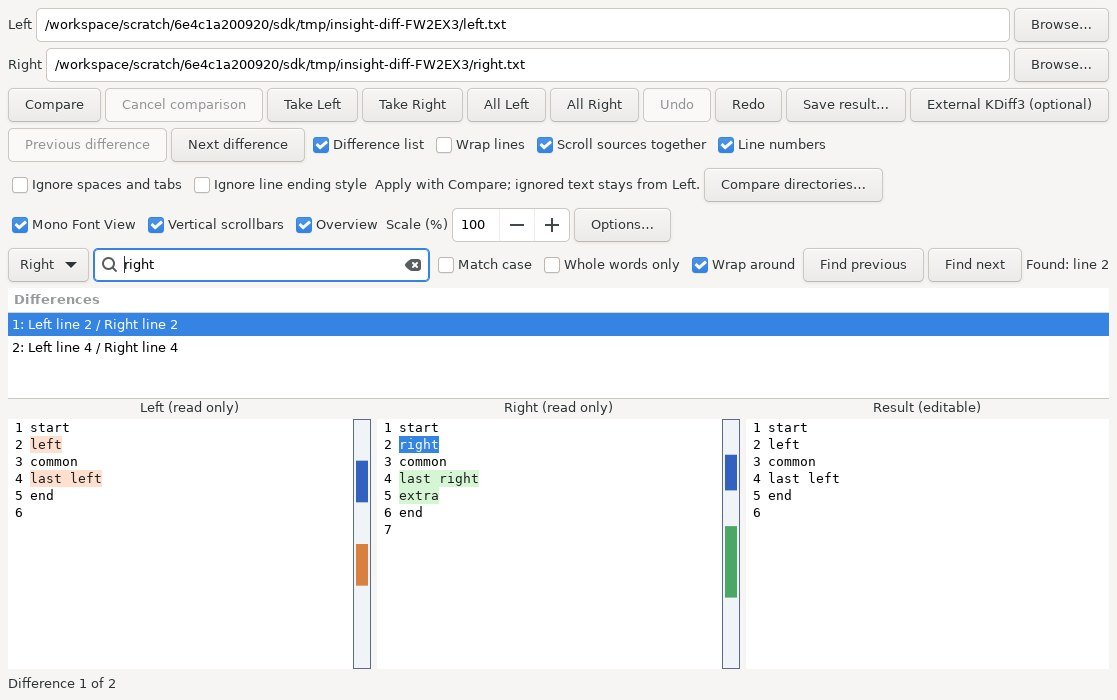
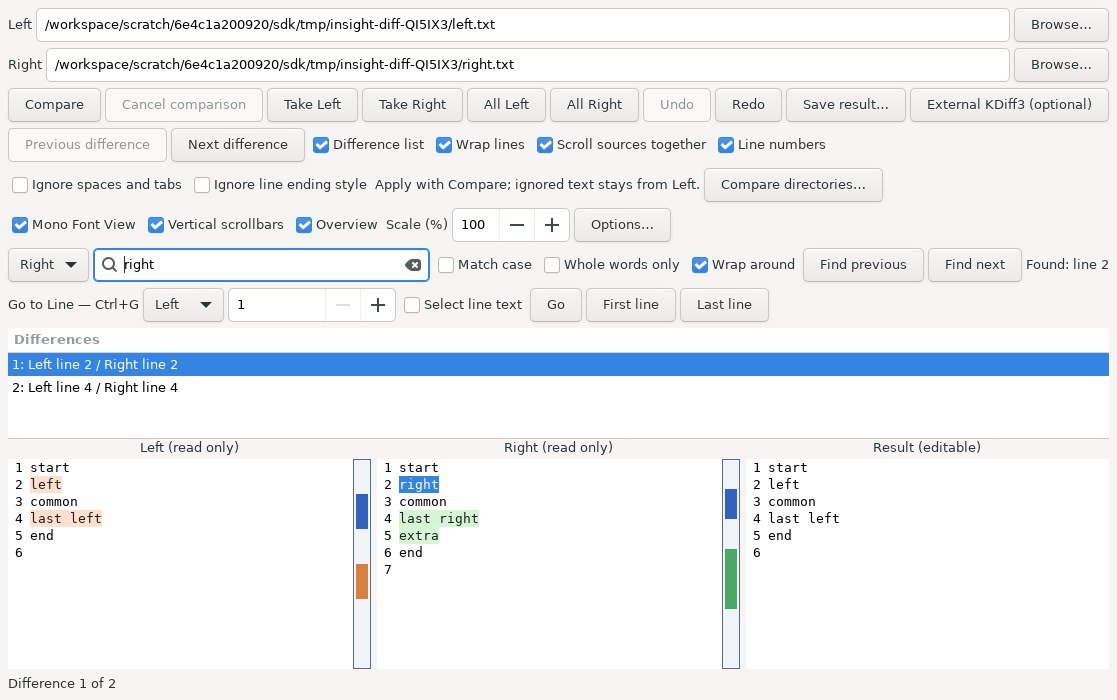
Add logical line navigation, line selection and pane cycling to File Compare

diff --git a/src/insight-diff.c b/src/insight-diff.c
@@ -15,6 +15,7 @@ typedef struct { guint begin,end; } MapBlock;
 typedef struct {
  GtkWidget *window,*paths[2],*views[3],*status,*undo,*redo,*take[2],*take_all[2],*external;
  GtkWidget *find_entry,*find_side,*find_case,*find_word,*find_wrap,*find_previous,*find_next,*find_status,*numbers;
+ GtkWidget *line_side,*line_number,*line_select,*line_status;
  GArray *map_blocks[2];guint map_lines[2];
  GtkWidget *scrollers[3],*maps[2],*zoom,*mono,*vertical,*overview,*list_toggle,*wrap_toggle;GtkCssProvider *font_css;
  GtkWidget *compare_button,*cancel_button,*save_button; GCancellable *cancel; gboolean busy;
@@ -114,9 +115,43 @@ static void focus_find(Merge *m) {
  }
  gtk_widget_grab_focus(m->find_entry);gtk_editable_select_region(GTK_EDITABLE(m->find_entry),0,-1);
 }
+static gint focused_pane(Merge *m) {
+ GtkWidget *focus=gtk_window_get_focus(GTK_WINDOW(m->window));
+ for(gint side=0;side<3;side++) if(focus==m->views[side]) return side;
+ return CLAMP(gtk_combo_box_get_active(GTK_COMBO_BOX(m->line_side)),0,2);
+}
+static void focus_line(Merge *m,gint side) {
+ GtkTextBuffer *buffer=gtk_text_view_get_buffer(GTK_TEXT_VIEW(m->views[side]));GtkTextIter at;
+ gtk_text_buffer_get_iter_at_mark(buffer,&at,gtk_text_buffer_get_insert(buffer));
+ gtk_combo_box_set_active(GTK_COMBO_BOX(m->line_side),side);
+ gtk_spin_button_set_value(GTK_SPIN_BUTTON(m->line_number),gtk_text_iter_get_line(&at)+1);
+ gtk_widget_grab_focus(m->line_number);gtk_editable_select_region(GTK_EDITABLE(m->line_number),0,-1);
+}
+static void go_line(GtkWidget *widget,gpointer data) {
+ (void)widget;Merge *m=data;if(m->busy) return;
+ gint side=CLAMP(gtk_combo_box_get_active(GTK_COMBO_BOX(m->line_side)),0,2);
+ GtkTextBuffer *buffer=gtk_text_view_get_buffer(GTK_TEXT_VIEW(m->views[side]));GtkTextIter at,end;
+ gtk_spin_button_update(GTK_SPIN_BUTTON(m->line_number));
+ gint line=MIN(gtk_spin_button_get_value_as_int(GTK_SPIN_BUTTON(m->line_number)),gtk_text_buffer_get_line_count(buffer));
+ gtk_text_buffer_get_iter_at_line(buffer,&at,line-1);end=at;
+ if(gtk_toggle_button_get_active(GTK_TOGGLE_BUTTON(m->line_select))) {
+  if(!gtk_text_iter_ends_line(&end)) gtk_text_iter_forward_to_line_end(&end);
+  gtk_text_buffer_select_range(buffer,&at,&end);
+ } else gtk_text_buffer_place_cursor(buffer,&at);
+ gtk_spin_button_set_value(GTK_SPIN_BUTTON(m->line_number),line);
+ gtk_text_view_scroll_to_iter(GTK_TEXT_VIEW(m->views[side]),&at,0.1,TRUE,0,0.5);gtk_widget_grab_focus(m->views[side]);
+ gchar *label=g_strdup_printf("Line %d of %d",line,gtk_text_buffer_get_line_count(buffer));gtk_label_set_text(GTK_LABEL(m->line_status),label);g_free(label);
+}
+static void line_begin(GtkWidget *widget,gpointer data) { Merge *m=data;gtk_spin_button_set_value(GTK_SPIN_BUTTON(m->line_number),widget==g_object_get_data(G_OBJECT(m->window),"line-first") ? 1 : G_MAXINT);go_line(widget,m); }
 static gboolean key(GtkWidget *w,GdkEventKey *event,gpointer data) {
  (void)w;
  Merge *m=data;
+ if((event->state&GDK_CONTROL_MASK) && (event->keyval==GDK_KEY_g || event->keyval==GDK_KEY_G)) { focus_line(m,focused_pane(m));return TRUE; }
+ if(event->keyval==GDK_KEY_F6 && !(event->state&(GDK_CONTROL_MASK|GDK_MOD1_MASK))) {
+  gint side=(focused_pane(m)+((event->state&GDK_SHIFT_MASK) ? 2 : 1))%3;
+  gtk_combo_box_set_active(GTK_COMBO_BOX(m->line_side),side);gtk_widget_grab_focus(m->views[side]);return TRUE;
+ }
+ if(event->keyval==GDK_KEY_Escape && w==m->line_number) { gtk_widget_grab_focus(m->views[focused_pane(m)]);return TRUE; }
  if(event->keyval==GDK_KEY_F3) { find_text(m,(event->state&GDK_SHIFT_MASK)!=0);return TRUE; }
  if((event->state&GDK_CONTROL_MASK) && (event->keyval==GDK_KEY_f || event->keyval==GDK_KEY_F)) { focus_find(m);return TRUE; }
  if(event->keyval==GDK_KEY_Escape && w==m->find_entry) {
@@ -401,14 +436,14 @@ static void copy_difference(Merge *m,guint side) {
 static void source_menu_action(GtkMenuItem *item,gpointer window) {
  Merge *m=g_object_get_data(G_OBJECT(window),"insight-diff-state");if(!m) return;
  gint side=GPOINTER_TO_INT(g_object_get_data(G_OBJECT(item),"side"));gint action=GPOINTER_TO_INT(g_object_get_data(G_OBJECT(item),"action"));
- if(action==0) edit_source(m,side);else if(action==1) copy_difference(m,side);else view_options(GTK_WIDGET(item),m);
+ if(action==0) edit_source(m,side);else if(action==1) copy_difference(m,side);else if(action==2) view_options(GTK_WIDGET(item),m);else focus_line(m,side);
 }
 static void view_menu_toggle(GtkCheckMenuItem *item,gpointer toggle) { gtk_toggle_button_set_active(GTK_TOGGLE_BUTTON(toggle),gtk_check_menu_item_get_active(item)); }
 static void source_menu(GtkTextView *view,GtkWidget *menu,gpointer data) {
  Merge *m=data;guint side=GTK_WIDGET(view)==m->views[1] ? 1 : GTK_WIDGET(view)==m->views[0] ? 0 : 2;
  gtk_menu_shell_append(GTK_MENU_SHELL(menu),gtk_separator_menu_item_new());
- const gchar *labels[]={"Edit File — Ctrl+E","Copy selected difference","File Compare Options…"};
- for(guint action=0;action<3;action++) {
+ const gchar *labels[]={"Edit File — Ctrl+E","Copy selected difference","File Compare Options…","Go to Line — Ctrl+G"};
+ for(guint action=0;action<4;action++) {
   if(side==2 && action<2) continue;
   GtkWidget *item=gtk_menu_item_new_with_label(labels[action]);g_object_set_data(G_OBJECT(item),"side",GUINT_TO_POINTER(side));g_object_set_data(G_OBJECT(item),"action",GUINT_TO_POINTER(action));gtk_menu_shell_append(GTK_MENU_SHELL(menu),item);g_signal_connect_object(item,"activate",G_CALLBACK(source_menu_action),m->window,0);
   if(action<2) gtk_widget_set_sensitive(item,!m->busy && m->loaded_paths[side] && (action==0 ? source_opener!=NULL : selected(m)>=0));
@@ -619,6 +654,15 @@ static Merge *merge_new(GtkWidget *parent) {
  m->find_previous=button(find,"Find previous",G_CALLBACK(find_clicked),m);m->find_next=button(find,"Find next",G_CALLBACK(find_clicked),m);
  m->find_status=gtk_label_new("");gtk_box_pack_start(GTK_BOX(find),m->find_status,FALSE,FALSE,0);
  g_signal_connect(m->find_entry,"activate",G_CALLBACK(find_activate),m);g_signal_connect(m->find_entry,"key-press-event",G_CALLBACK(key),m);
+ GtkWidget *line=gtk_box_new(GTK_ORIENTATION_HORIZONTAL,4);gtk_box_pack_start(GTK_BOX(box),line,FALSE,FALSE,0);
+ gtk_box_pack_start(GTK_BOX(line),gtk_label_new("Go to Line — Ctrl+G"),FALSE,FALSE,0);
+ m->line_side=gtk_combo_box_text_new();for(guint i=0;i<3;i++) gtk_combo_box_text_append_text(GTK_COMBO_BOX_TEXT(m->line_side),i==0 ? "Left" : i==1 ? "Right" : "Result");gtk_combo_box_set_active(GTK_COMBO_BOX(m->line_side),0);gtk_box_pack_start(GTK_BOX(line),m->line_side,FALSE,FALSE,0);
+ m->line_number=gtk_spin_button_new_with_range(1,G_MAXINT,1);gtk_entry_set_width_chars(GTK_ENTRY(m->line_number),10);gtk_widget_set_name(m->line_number,"insight-diff-line");gtk_box_pack_start(GTK_BOX(line),m->line_number,FALSE,FALSE,0);
+ m->line_select=gtk_check_button_new_with_label("Select line text");gtk_box_pack_start(GTK_BOX(line),m->line_select,FALSE,FALSE,0);
+ button(line,"Go",G_CALLBACK(go_line),m);GtkWidget *first=button(line,"First line",G_CALLBACK(line_begin),m);g_object_set_data(G_OBJECT(m->window),"line-first",first);button(line,"Last line",G_CALLBACK(line_begin),m);
+ m->line_status=gtk_label_new("");gtk_box_pack_start(GTK_BOX(line),m->line_status,FALSE,FALSE,0);
+ gtk_widget_set_tooltip_text(m->line_number,"Logical line number; values beyond the end go to the last line.");
+ g_signal_connect(m->line_number,"activate",G_CALLBACK(go_line),m);g_signal_connect(m->line_number,"key-press-event",G_CALLBACK(key),m);
  GtkWidget *panes=gtk_paned_new(GTK_ORIENTATION_VERTICAL);gtk_box_pack_start(GTK_BOX(box),panes,TRUE,TRUE,0);
  m->list=gtk_list_store_new(2,G_TYPE_INT,G_TYPE_STRING);m->hunk_view=gtk_tree_view_new_with_model(GTK_TREE_MODEL(m->list));
  gtk_tree_view_insert_column_with_attributes(GTK_TREE_VIEW(m->hunk_view),-1,"Differences",gtk_cell_renderer_text_new(),"text",1,NULL);

diff --git a/insight/tests/directory_compare_native_gui_test.c b/insight/tests/directory_compare_native_gui_test.c
@@ -48,7 +48,7 @@ static gboolean step(gpointer data) {
   if(!gtk_widget_get_sensitive(named(merge,"insight-diff-compare"))) return G_SOURCE_CONTINUE;
   GtkTextBuffer *buffer=gtk_text_view_get_buffer(GTK_TEXT_VIEW(named(merge,"insight-diff-result")));GtkTextIter a,z;gtk_text_buffer_get_bounds(buffer,&a,&z);gchar *text=gtk_text_buffer_get_text(buffer,&a,&z,TRUE);g_assert_cmpstr(text,==,"port = 3000\n");g_free(text);
   GdkEventKey shortcut={0};shortcut.type=GDK_KEY_PRESS;shortcut.state=GDK_CONTROL_MASK;shortcut.keyval=GDK_KEY_q;gboolean handled=FALSE;g_idle_add(apply_compare_options,NULL);g_signal_emit_by_name(merge,"key-press-event",&shortcut,&handled);g_assert_true(handled);g_assert_cmpint(gtk_spin_button_get_value_as_int(GTK_SPIN_BUTTON(named(merge,"insight-diff-zoom"))),==,130);g_assert_true(gtk_toggle_button_get_active(GTK_TOGGLE_BUTTON(named(merge,"insight-diff-overview"))));
-  GtkWidget *right_view=named(merge,"insight-diff-right");GtkTextBuffer *right_buffer=gtk_text_view_get_buffer(GTK_TEXT_VIEW(right_view));GtkTextIter line;gtk_text_buffer_get_iter_at_line(right_buffer,&line,1);gtk_text_buffer_place_cursor(right_buffer,&line);shortcut.keyval=GDK_KEY_e;handled=FALSE;g_signal_emit_by_name(right_view,"key-press-event",&shortcut,&handled);g_assert_true(handled);GeanyDocument *opened=document_get_current();g_assert_nonnull(opened);gchar *expected=g_build_filename(right,"config.ini",NULL);g_assert_cmpstr(opened->real_path,==,expected);g_free(expected);g_assert_cmpint(sci_get_current_line(opened->editor->sci),==,1);g_assert_false(opened->changed);gtk_widget_destroy(merge);
+  GtkWidget *right_view=named(merge,"insight-diff-right");GtkTextBuffer *right_buffer=gtk_text_view_get_buffer(GTK_TEXT_VIEW(right_view));GtkTextIter line;gtk_widget_grab_focus(right_view);shortcut.keyval=GDK_KEY_g;handled=FALSE;g_signal_emit_by_name(right_view,"key-press-event",&shortcut,&handled);g_assert_true(handled);GtkWidget *line_number=named(merge,"insight-diff-line");g_assert_nonnull(line_number);gtk_spin_button_set_value(GTK_SPIN_BUTTON(line_number),2);g_signal_emit_by_name(line_number,"activate");gtk_text_buffer_get_iter_at_mark(right_buffer,&line,gtk_text_buffer_get_insert(right_buffer));g_assert_cmpint(gtk_text_iter_get_line(&line),==,1);shortcut.keyval=GDK_KEY_e;handled=FALSE;g_signal_emit_by_name(right_view,"key-press-event",&shortcut,&handled);g_assert_true(handled);GeanyDocument *opened=document_get_current();g_assert_nonnull(opened);gchar *expected=g_build_filename(right,"config.ini",NULL);g_assert_cmpstr(opened->real_path,==,expected);g_free(expected);g_assert_cmpint(sci_get_current_line(opened->editor->sci),==,1);g_assert_false(opened->changed);gtk_widget_destroy(merge);
   gchar *copy=g_build_filename(left,"transfer.c",NULL);g_assert_true(g_file_set_contents(copy,"int transfer;\n",-1,NULL));g_free(copy);gtk_button_clicked(GTK_BUTTON(named(directory,"insight-directory-scan")));phase=3;return G_SOURCE_CONTINUE;
  }
  if(phase==3) {

diff --git a/insight/tests/diff_gui_test.c b/insight/tests/diff_gui_test.c
@@ -67,8 +67,24 @@ static void search_options_test(void) {
  assert_text(m,"foobar foo_bar foo2 αfoo foó foo FOO");
  gtk_widget_destroy(m->window);flush();
 }
+static void line_navigation_test(void) {
+ Merge *m=merge_new(NULL);flush();GtkTextBuffer *b=result(m);GtkTextIter a,z;GdkEventKey event={0};
+ gtk_text_buffer_set_text(b,"one\r\nдва\rthree\n",-1);guint history=m->history->len;
+ gtk_widget_grab_focus(m->views[2]);event.state=GDK_CONTROL_MASK;event.keyval=GDK_KEY_g;
+ g_assert_true(key(m->views[2],&event,m));g_assert_true(gtk_widget_has_focus(m->line_number));g_assert_cmpint(gtk_combo_box_get_active(GTK_COMBO_BOX(m->line_side)),==,2);
+ gtk_spin_button_set_value(GTK_SPIN_BUTTON(m->line_number),2);gtk_toggle_button_set_active(GTK_TOGGLE_BUTTON(m->line_select),TRUE);
+ go_line(NULL,m);g_assert_true(gtk_text_buffer_get_selection_bounds(b,&a,&z));gchar *text=gtk_text_buffer_get_text(b,&a,&z,TRUE);g_assert_cmpstr(text,==,"два");g_free(text);
+ gtk_toggle_button_set_active(GTK_TOGGLE_BUTTON(m->wrap_toggle),TRUE);gtk_spin_button_set_value(GTK_SPIN_BUTTON(m->line_number),G_MAXINT);go_line(NULL,m);
+ gtk_text_buffer_get_iter_at_mark(b,&a,gtk_text_buffer_get_insert(b));g_assert_cmpint(gtk_text_iter_get_line(&a),==,3);g_assert_false(gtk_text_buffer_get_has_selection(b));
+ line_begin(g_object_get_data(G_OBJECT(m->window),"line-first"),m);gtk_text_buffer_get_selection_bounds(b,&a,&z);g_assert_cmpint(gtk_text_iter_get_line(&a),==,0);
+ event.state=0;event.keyval=GDK_KEY_F6;g_assert_true(key(m->views[2],&event,m));g_assert_true(gtk_widget_has_focus(m->views[0]));
+ event.state=GDK_SHIFT_MASK;g_assert_true(key(m->views[0],&event,m));g_assert_true(gtk_widget_has_focus(m->views[2]));
+ g_assert_cmpuint(m->history->len,==,history);assert_text(m,"one\r\nдва\rthree\n");
+ gtk_text_buffer_set_text(b,"",0);gtk_spin_button_set_value(GTK_SPIN_BUTTON(m->line_number),100);go_line(NULL,m);g_assert_cmpint(gtk_spin_button_get_value_as_int(GTK_SPIN_BUTTON(m->line_number)),==,1);
+ gtk_widget_destroy(m->window);flush();
+}
 int main(int argc,char **argv) {
- gtk_init(&argc,&argv);search_options_test();insight_diff_set_source_opener(source_opened);
+ gtk_init(&argc,&argv);line_navigation_test();search_options_test();insight_diff_set_source_opener(source_opened);
  GError *error=NULL;gchar *dir=g_dir_make_tmp("insight-diff-XXXXXX",&error);g_assert_no_error(error);
  gchar *left=g_build_filename(dir,"left.txt",NULL),*right=g_build_filename(dir,"right.txt",NULL);
  const char *a="start\nleft\ncommon\nlast left\nend\n",*b="start\nright\ncommon\nlast right\nextra\nend\n";

diff --git a/insight/docs/ru/internal-diff.md b/insight/docs/ru/internal-diff.md
@@ -142,3 +142,9 @@ Alt+Left / Alt+Right принимает выбранный левый/правы
 Ctrl+F выбирает активную панель и подставляет однострочное выделение до 4096 символов. «Whole words only» учитывает границы идентификаторов: буквы Unicode, цифры, комбинируемые знаки и подчёркивания входят в слово. «Wrap around» разрешает один повтор поиска с противоположного конца; отключите его для остановки на границе файла. F3 и Shift+F3 сохраняют направление. Параметры поиска действуют в текущем окне, поиск не меняет текст результата и историю слияния. Регулярные выражения не поддерживаются.
 
 ![Поиск в настоящем виджете сравнения, изолированный GTK fixture](../media/file-compare.jpg)
+
+### Переход к строке и переключение панелей
+
+Ctrl+G выбирает активную панель и подставляет номер строки курсора. Введите логический номер и нажмите Enter или «Go». Номер за концом файла переводит на последнюю строку; пустой файл содержит строку 1. «Select line text» выделяет содержимое без перевода строки. «First line» и «Last line» работают в выбранной панели. Escape возвращает фокус из номера строки в панель. Команда доступна и в контекстном меню.
+
+F6 переключает Left → Right → Result, Shift+F6 — обратно. Поиск сохраняет собственный выбор панели. Переходы не меняют текст, выбранное различие и историю слияния; во время сравнения переход к строке заблокирован. Номера логические и не зависят от визуального переноса длинных строк. Снимок виджета выше показывает панель навигации.

diff --git a/insight/docs/en/internal-diff.md b/insight/docs/en/internal-diff.md
@@ -185,3 +185,9 @@ This dialog is captured from production GTK widgets in the isolated Linux fixtur
 Ctrl+F targets the focused pane and seeds the query from a single-line selection of up to 4096 characters. **Whole words only** uses identifier boundaries: Unicode letters, digits, combining marks and underscores belong to words. **Wrap around** allows one retry from the opposite end; disable it to stop at the file boundary. F3 and Shift+F3 search forward and backward. Search options apply to the current window and never modify result text or merge history. Regular expressions are not supported.
 
 ![Production comparison widget search, isolated GTK fixture](../media/file-compare.jpg)
+
+### Go to Line and pane switching
+
+Ctrl+G targets the focused pane and seeds its current caret line. Enter a logical line number and press Enter or **Go**. Numbers beyond EOF land on the last line; an empty buffer has line 1. **Select line text** selects content without its line ending. **First line** and **Last line** use the selected pane. Escape returns focus from the number field to that pane. Go to Line is also available in the text context menu.
+
+F6 cycles Left → Right → Result; Shift+F6 reverses the order. Search keeps its independent pane choice. Navigation preserves text, selected difference and merge history; Go to Line is blocked while comparison runs. Logical lines do not change when long lines wrap visually. The production-widget capture above includes the navigation bar.

diff --git a/insight/docs/internal-diff.md b/insight/docs/internal-diff.md
@@ -185,3 +185,9 @@ This dialog is captured from production GTK widgets in the isolated Linux fixtur
 Ctrl+F targets the focused pane and seeds the query from a single-line selection of up to 4096 characters. **Whole words only** uses identifier boundaries: Unicode letters, digits, combining marks and underscores belong to words. **Wrap around** allows one retry from the opposite end; disable it to stop at the file boundary. F3 and Shift+F3 search forward and backward. Search options apply to the current window and never modify result text or merge history. Regular expressions are not supported.
 
 ![Production comparison widget search, isolated GTK fixture](media/file-compare.jpg)
+
+### Go to Line and pane switching
+
+Ctrl+G targets the focused pane and seeds its current caret line. Enter a logical line number and press Enter or **Go**. Numbers beyond EOF land on the last line; an empty buffer has line 1. **Select line text** selects content without its line ending. **First line** and **Last line** use the selected pane. Escape returns focus from the number field to that pane. Go to Line is also available in the text context menu.
+
+F6 cycles Left → Right → Result; Shift+F6 reverses the order. Search keeps its independent pane choice. Navigation preserves text, selected difference and merge history; Go to Line is blocked while comparison runs. Logical lines do not change when long lines wrap visually. The production-widget capture above includes the navigation bar.

diff --git a/insight/docs/source-insight-parity.md b/insight/docs/source-insight-parity.md
@@ -428,3 +428,7 @@ Source context menus expose Edit File (Ctrl+E) at the source caret line, exact s
 ### 2026-10-16 — comparison search controls
 
 Added whole-identifier matching, optional wrap-around and Ctrl+F selection seeding in all three comparison panes. Unicode combining marks and underscore remain identifier constituents. Production GTK fixture verifies both directions, rejected partial identifiers, wrap disabled/enabled, selection seeding and unchanged result text. Linux GTK/UBSan validation; other platforms not executed. Reference: [Source Insight Search](https://www.sourceinsight.com/doc/v4/userguide/Manual/Command_Reference/Search.htm).
+
+### 2026-10-16 — comparison line navigation
+
+Added Ctrl+G logical-line navigation in all three panes, EOF clamping, optional line-content selection, first/last line buttons, source/result context-menu access, Escape focus return and F6/Shift+F6 pane cycling. Comparison work blocks the jump. Production GTK/UBSan checks cover empty buffers, CR/LF/CRLF, Unicode, trailing empty lines, wrap mode, focus and unchanged merge history. Native Linux editor fixture uses Ctrl+G before Ctrl+E and verifies the opened editor line. [Source Insight Go To Line](https://www.sourceinsight.com/doc/v4/userguide/Manual/Command_Reference/Go_To_Line.htm).
